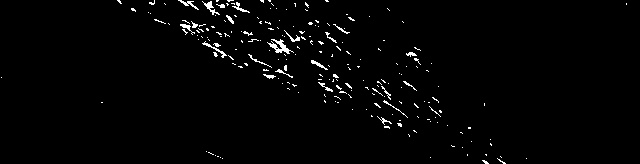
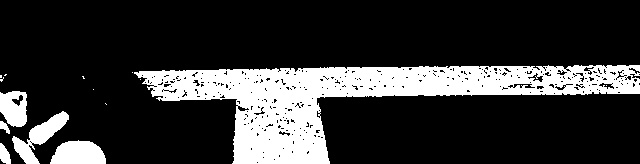
changes

diff --git a/Camera_code/LineDetectionAverage.py b/Camera_code/LineDetectionAverage.py
@@ -42,7 +42,7 @@ class LineDetection:
         grey_image = cv2.cvtColor(original_image, cv2.COLOR_BGR2GRAY)
 
         # define threshold values
-        threshold = 220 
+        threshold = 180 
         max_value = 255 
 
         _, binary_image = cv2.threshold(grey_image, threshold, max_value, cv2.THRESH_BINARY) # now the image is purely black and white
